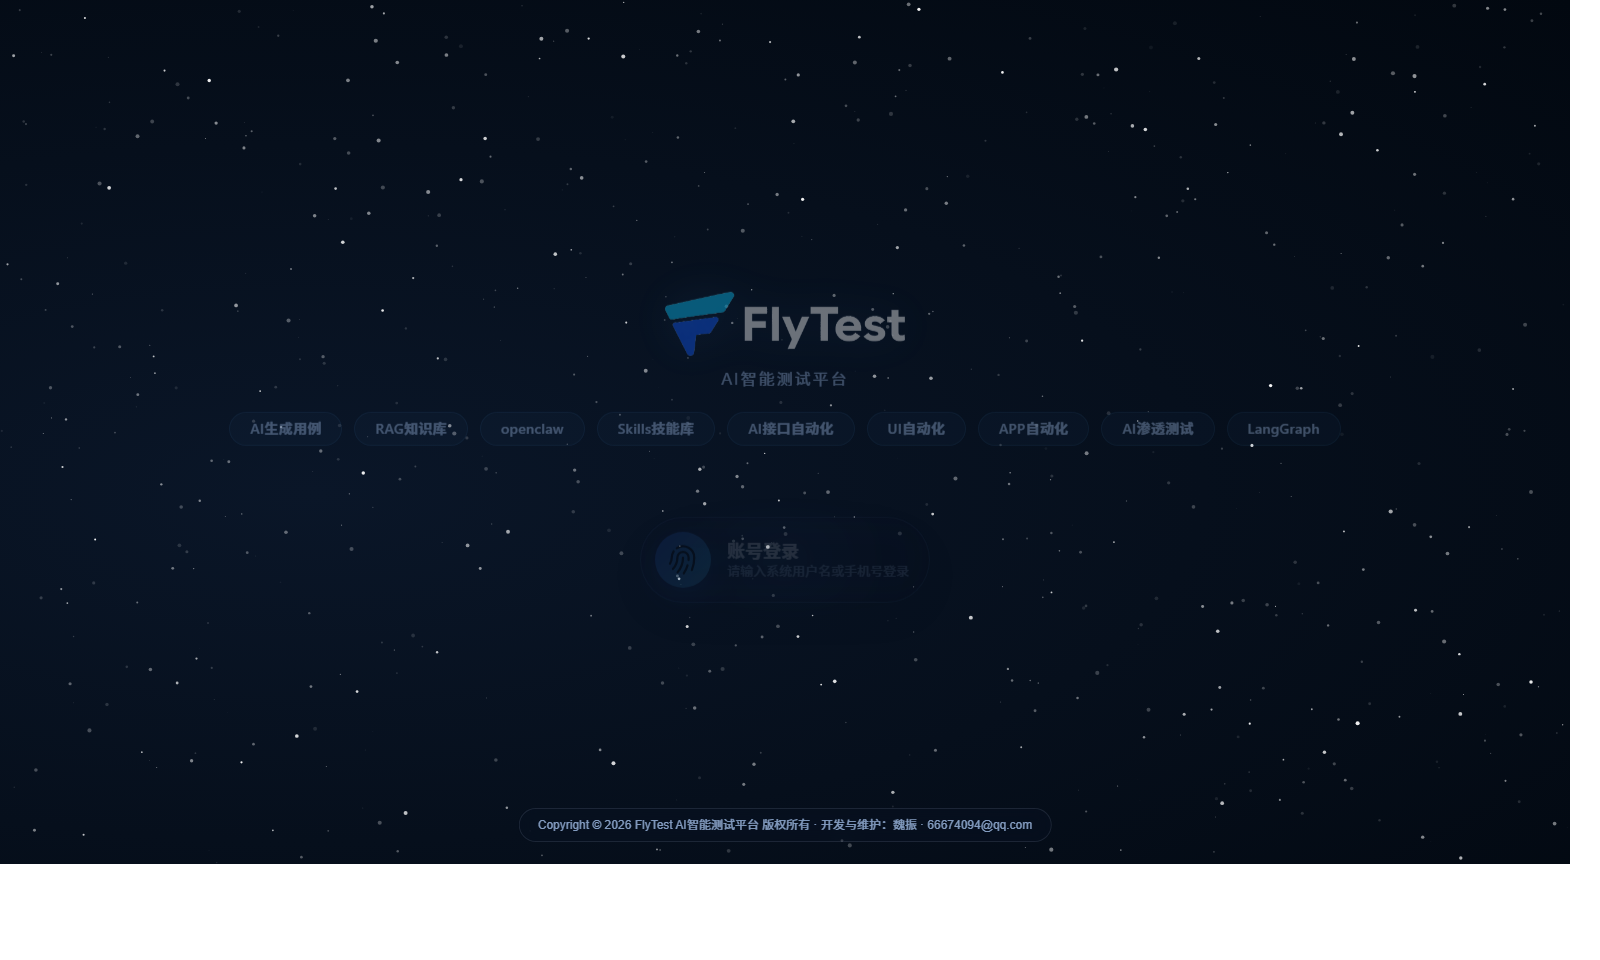
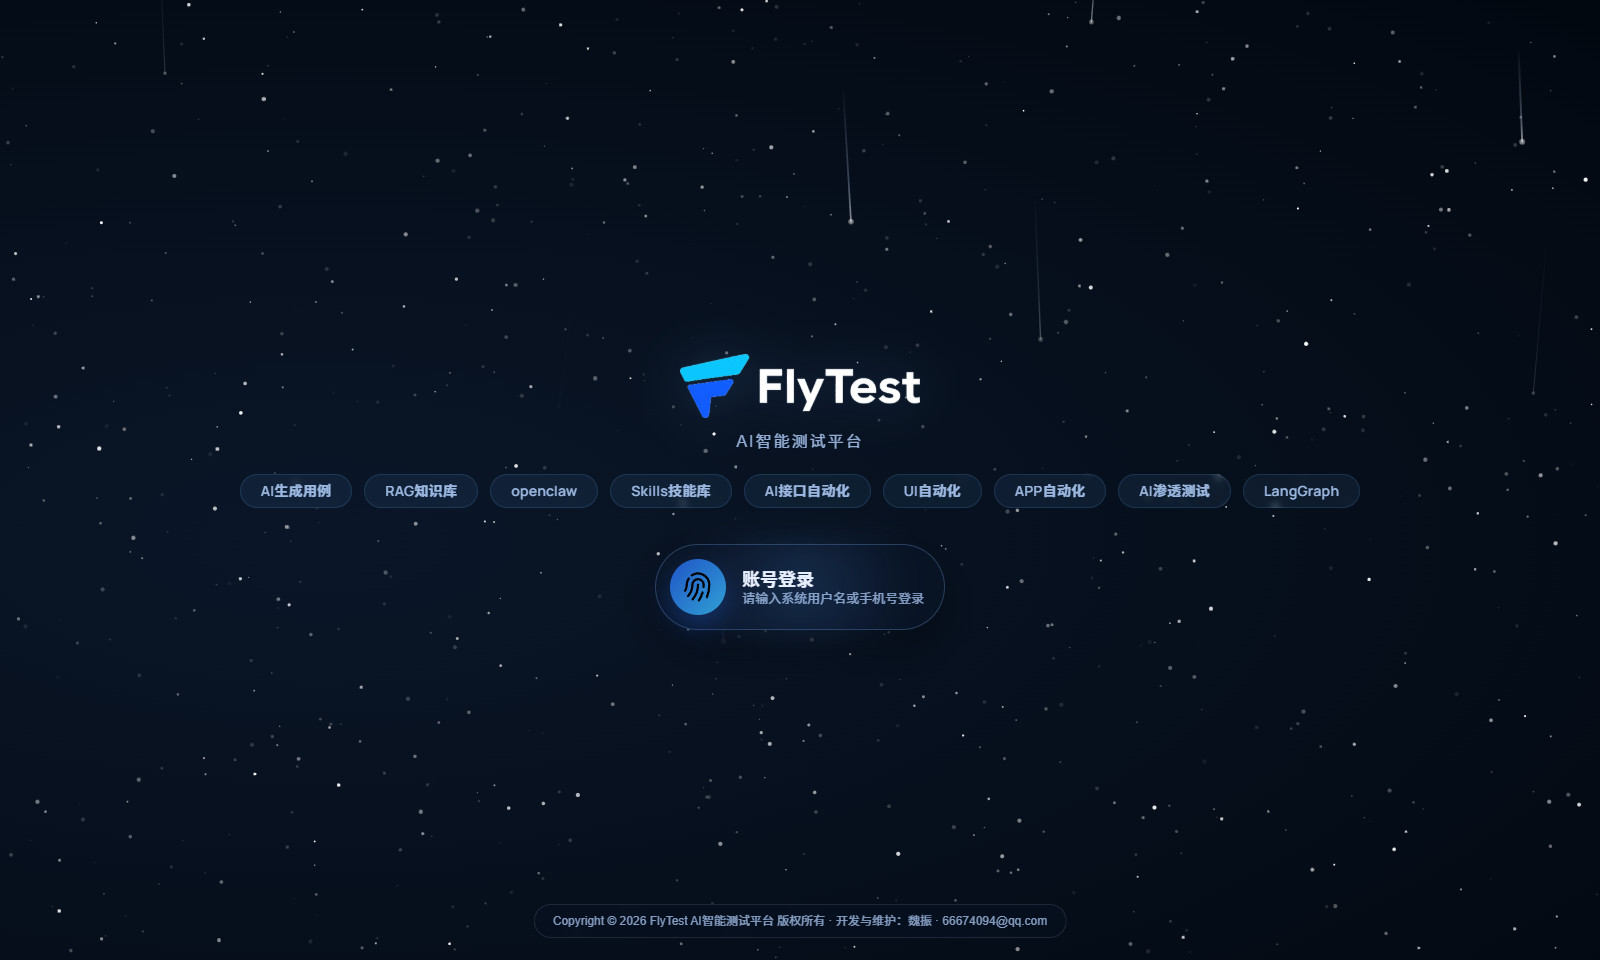
Refresh README gallery with current product screenshots

diff --git a/README.md b/README.md
@@ -16,17 +16,25 @@ FlyTest 不是单点的“AI 生成用例”工具，而是把测试工作从需
 
 ## 页面截图
 
-### 登录首页
+### 登录与入口
 
-![FlyTest 登录首页](./.github/readme-assets/login-home.png)
+| 登录首页 | 登录弹窗 |
+| --- | --- |
+| ![FlyTest 登录首页](./.github/readme-assets/login-home.png) | ![FlyTest 登录弹窗](./.github/readme-assets/login-dialog.png) |
 
-### 登录弹窗
+### 管理后台
 
-![FlyTest 登录弹窗](./.github/readme-assets/login-dialog.png)
+| 首页工作台 | 测试用例 |
+| --- | --- |
+| ![FlyTest 首页工作台](./.github/readme-assets/dashboard-home.png) | ![FlyTest 测试用例](./.github/readme-assets/testcases-page.png) |
 
-### 测试工作台示意
+| BUG 管理 | APP 自动化 |
+| --- | --- |
+| ![FlyTest BUG 管理](./.github/readme-assets/bugs-page.png) | ![FlyTest APP 自动化](./.github/readme-assets/app-automation-page.png) |
 
-![FlyTest 工作台示意](./.github/readme-assets/workspace-testcases.png)
+| 执行历史 | 测试工作台示意 |
+| --- | --- |
+| ![FlyTest 执行历史](./.github/readme-assets/reports-page.png) | ![FlyTest 测试工作台示意](./.github/readme-assets/workspace-testcases.png) |
 
 ## 核心能力
 